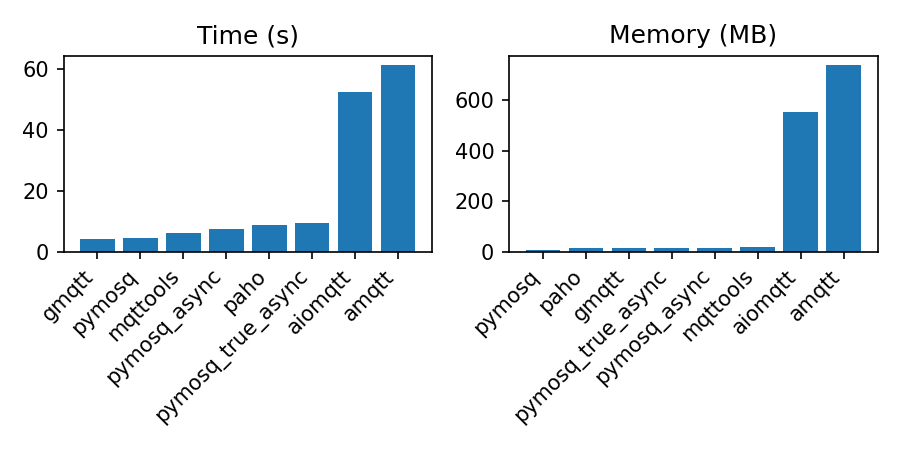
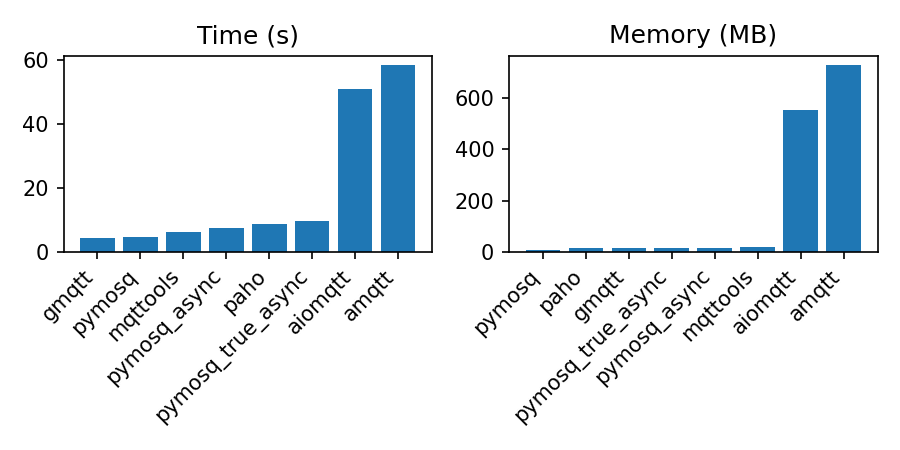
some refactoring

diff --git a/pymosquitto/bindings.py b/pymosquitto/bindings.py
@@ -6,32 +6,9 @@ from .constants import LIBMOSQ_PATH
 libmosq = C.CDLL(LIBMOSQ_PATH, use_errno=True)
 
 
-def encode(args):
-    return [arg.encode() if isinstance(arg, str) else arg for arg in args]
-
-
-def bind(restype, func, *argtypes, auto_encode=False, auto_decode=False):
+def bind(restype, func, *argtypes):
     func.restype = restype
     func.argtypes = argtypes
-
-    auto_encode = auto_encode and any(arg == C.c_char_p for arg in argtypes)
-    auto_decode = auto_decode and restype == C.c_char_p
-
-    if auto_encode or auto_decode:
-
-        def wrapper(*args):
-            if auto_encode:
-                args = encode(args)
-            ret = func(*args)
-            if auto_decode:
-                ret = ret.decode()
-            return ret
-
-        wrapper.__name__ = func.__name__
-        wrapper.restype = restype
-        wrapper.argtypes = argtypes
-        return wrapper
-
     return func
 
 
@@ -66,17 +43,13 @@ bind(C.c_void_p, libmosq.mosquitto_new, C.c_char_p, C.c_bool, C.py_object)
 ###
 
 # const char *mosquitto_strerror(int mosq_errno)
-strerror = bind(C.c_char_p, libmosq.mosquitto_strerror, C.c_int, auto_decode=True)
+bind(C.c_char_p, libmosq.mosquitto_strerror, C.c_int)
 
 # const char *mosquitto_connack_string(int connack_code)
-connack_string = bind(
-    C.c_char_p, libmosq.mosquitto_connack_string, C.c_int, auto_decode=True
-)
+bind(C.c_char_p, libmosq.mosquitto_connack_string, C.c_int)
 
 # const char *mosquitto_reason_string(int reason_code)
-reason_string = bind(
-    C.c_char_p, libmosq.mosquitto_reason_string, C.c_int, auto_decode=True
-)
+bind(C.c_char_p, libmosq.mosquitto_reason_string, C.c_int)
 
 # int mosquitto_topic_matches_sub(const char *sub, const char *topic, bool *result)
 bind(
@@ -85,11 +58,28 @@ bind(
     C.c_char_p,
     C.c_char_p,
     C.POINTER(C.c_bool),
-    auto_encode=False,
 )
 
 
-def call(func, *args, use_errno=False):
+def strerror(errno):
+    return libmosq.mosquitto_strerror(errno).decode()
+
+
+def connack_string(code):
+    return libmosq.mosquitto_connack_string(code).decode()
+
+
+def reason_string(code):
+    return libmosq.mosquitto_reason_string(code).decode()
+
+
+def encode(args):
+    return [arg.encode() if isinstance(arg, str) else arg for arg in args]
+
+
+def call(func, *args, use_errno=False, auto_encode=False, auto_decode=False):
+    if auto_encode and any(arg == C.c_char_p for arg in func.argtypes):
+        args = encode(args)
     if use_errno:
         C.set_errno(0)
     ret = func(*args)
@@ -97,6 +87,8 @@ def call(func, *args, use_errno=False):
         err = C.get_errno()
         if err != 0:
             raise OSError(err, os.strerror(err))
+    if auto_decode and func.restype == C.c_char_p:
+        ret = ret.deccode()
     return ret
 
 

diff --git a/pymosquitto/client.py b/pymosquitto/client.py
@@ -76,23 +76,17 @@ class MQTTMessage:
 
 
 class Method:
-    def __init__(
-        self, restype, func, *argtypes, auto_encode=True, auto_decode=True, is_mosq=True
-    ):
-        self._func = bind(
-            restype, func, *argtypes, auto_encode=auto_encode, auto_decode=auto_decode
-        )
-        self._is_mosq = is_mosq
+    def __init__(self, restype, func, *argtypes, **kwargs):
+        self._func = bind(restype, func, *argtypes)
+        self._kwargs = kwargs
 
     def __get__(self, obj, objtype=None):
         method_name = self._func.__name__
 
         if not hasattr(obj, method_name):
-            func = self._func
-            is_mosq = self._is_mosq
 
             def method(self_, *args):
-                return self_.call(func, *args, is_mosq=is_mosq)
+                return self_.call(self._func, *args, **self._kwargs)
 
             setattr(obj, method_name, types.MethodType(method, weakref.proxy(obj)))
 
@@ -247,10 +241,16 @@ class Client:
     def __del__(self):
         self.destroy()
 
-    def call(self, func, *args, is_mosq=True, **kwargs):
+    def call(self, func, *args, is_mosq=True, auto_encode=True, auto_decode=True):
         if self._logger:
             self._logger.debug("CALL: %s%s", func.__name__, (self._mosq_ptr,) + args)
-        ret = call(func, self._mosq_ptr, *args, **kwargs)
+        ret = call(
+            func,
+            self._mosq_ptr,
+            *args,
+            auto_encode=auto_encode,
+            auto_decode=auto_decode,
+        )
         if is_mosq and func.restype == C.c_int and ret != ErrorCode.SUCCESS:
             raise LibMosqError(ret)
         return ret

diff --git a/README.md b/README.md
@@ -79,14 +79,14 @@ Losers excluded:
 
 ```text
 Module;Time;RSS
-pymosq;0:04.51;18432
-pymosq_async;0:07.43;25424
-pymosq_true_async;0:09.28;25000
-paho;0:08.74;23400
-gmqtt;0:04.16;24688
-mqttools;0:06.17;27804
-aiomqtt;0:52.38;578184
-amqtt;1:01.23;767248
+pymosq;0:04.63;18340
+pymosq_async;0:07.35;25792
+pymosq_true_async;0:09.59;24872
+paho;0:08.77;23400
+gmqtt;0:04.15;24680
+mqttools;0:06.21;27872
+aiomqtt;0:51.03;578184
+amqtt;0:58.32;756508
 ```
 
 
